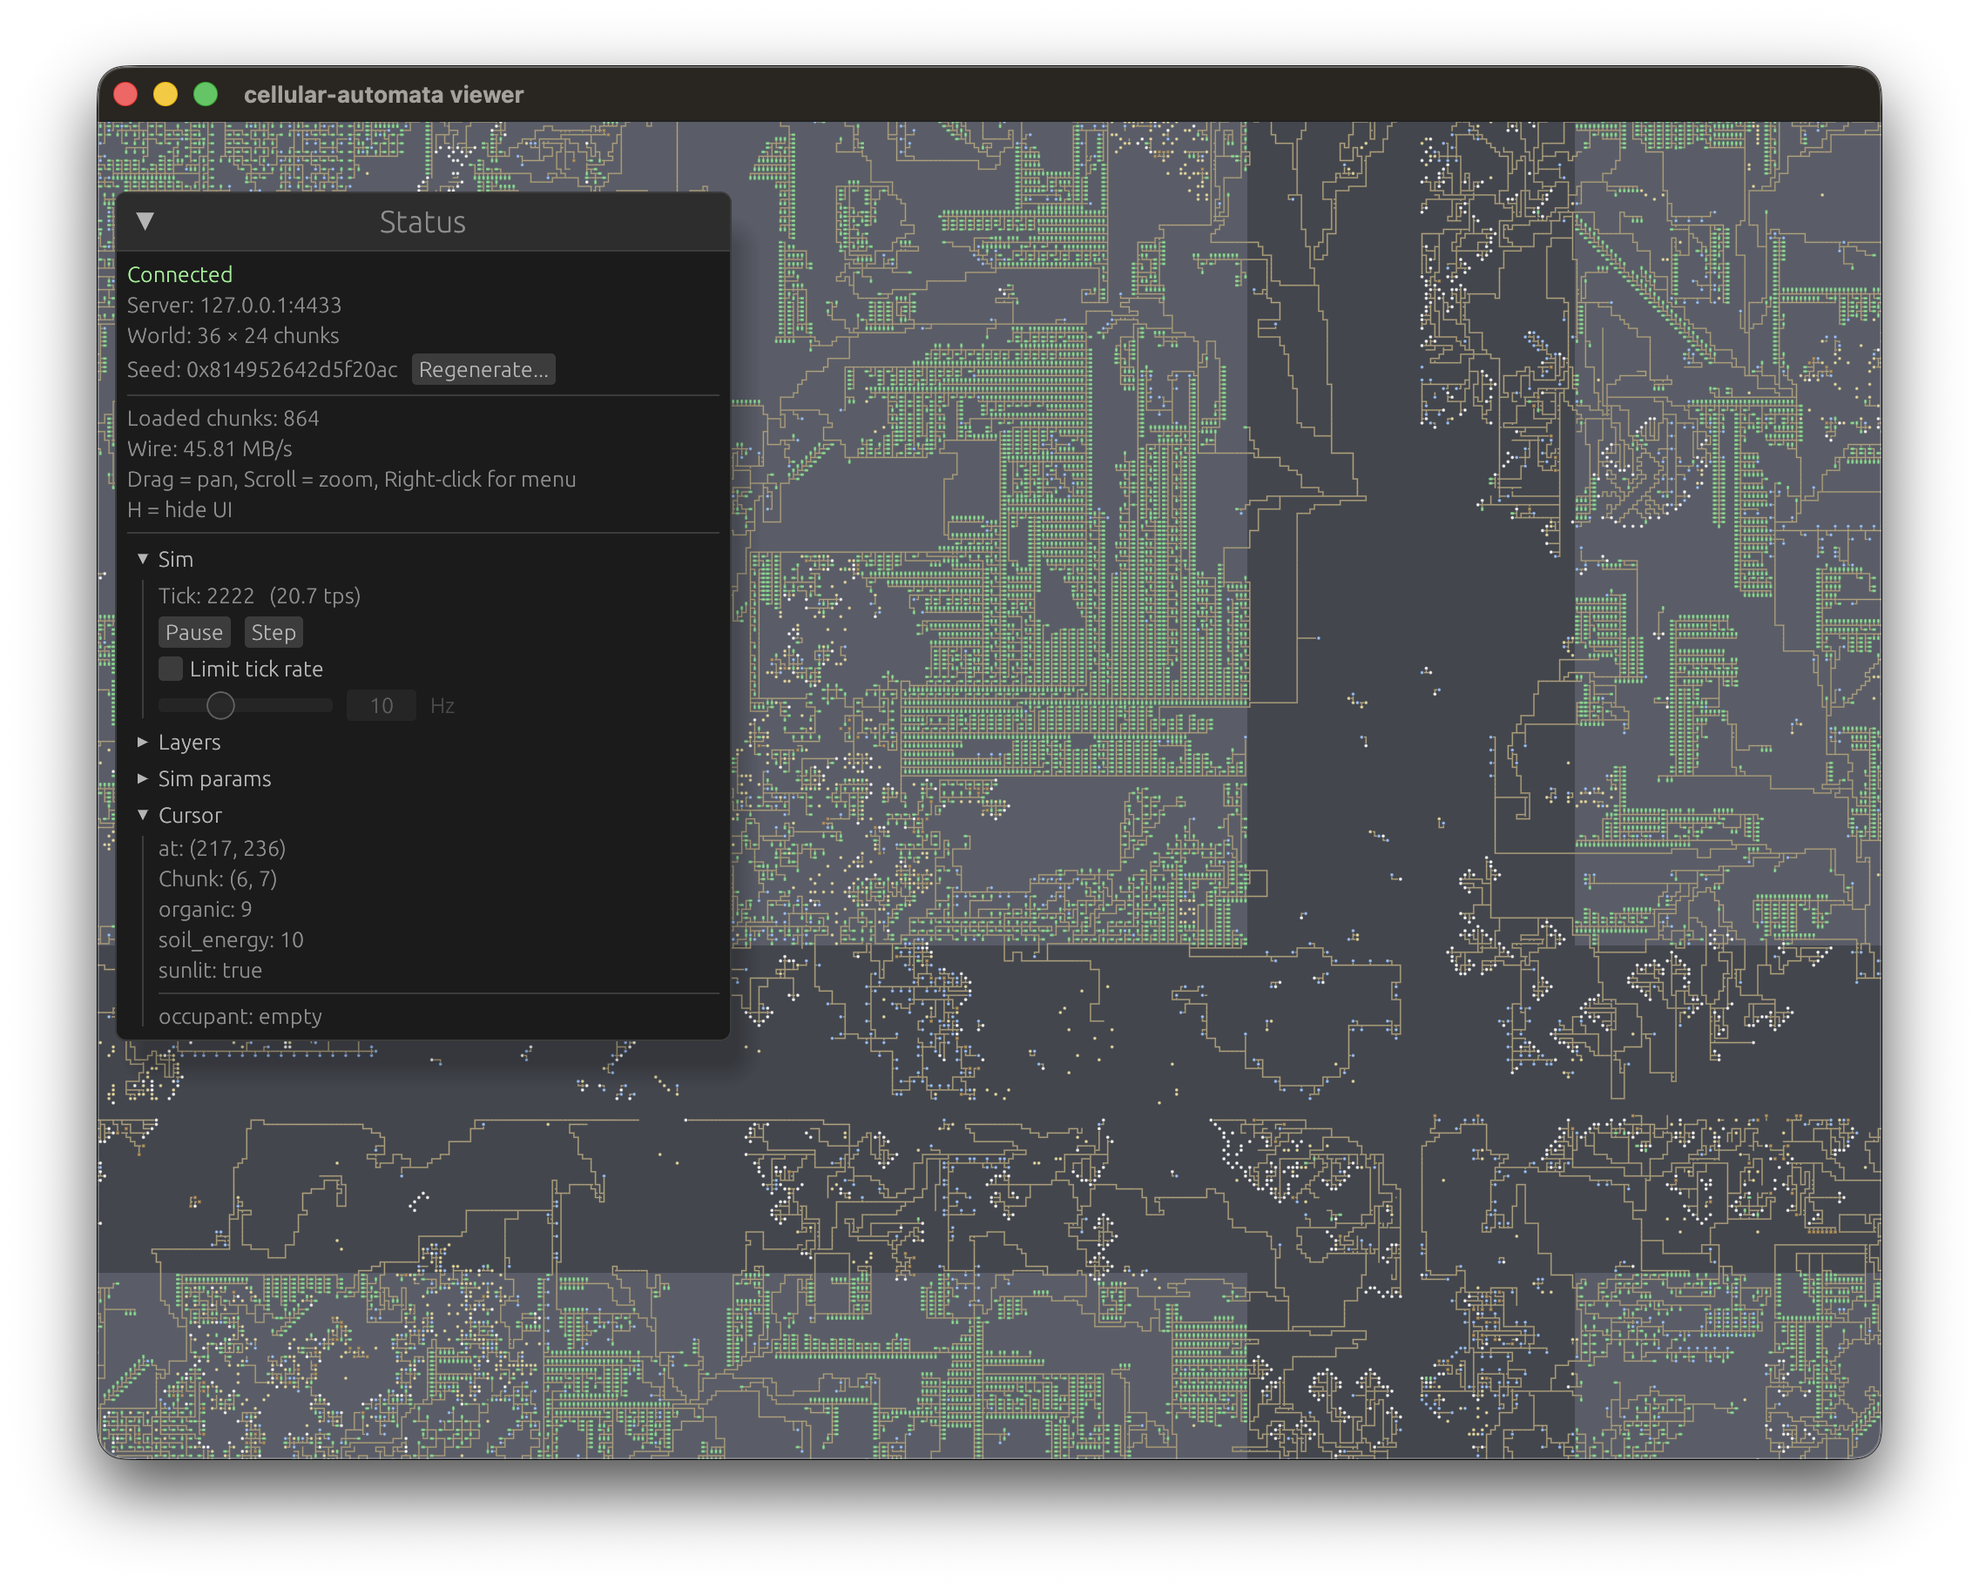
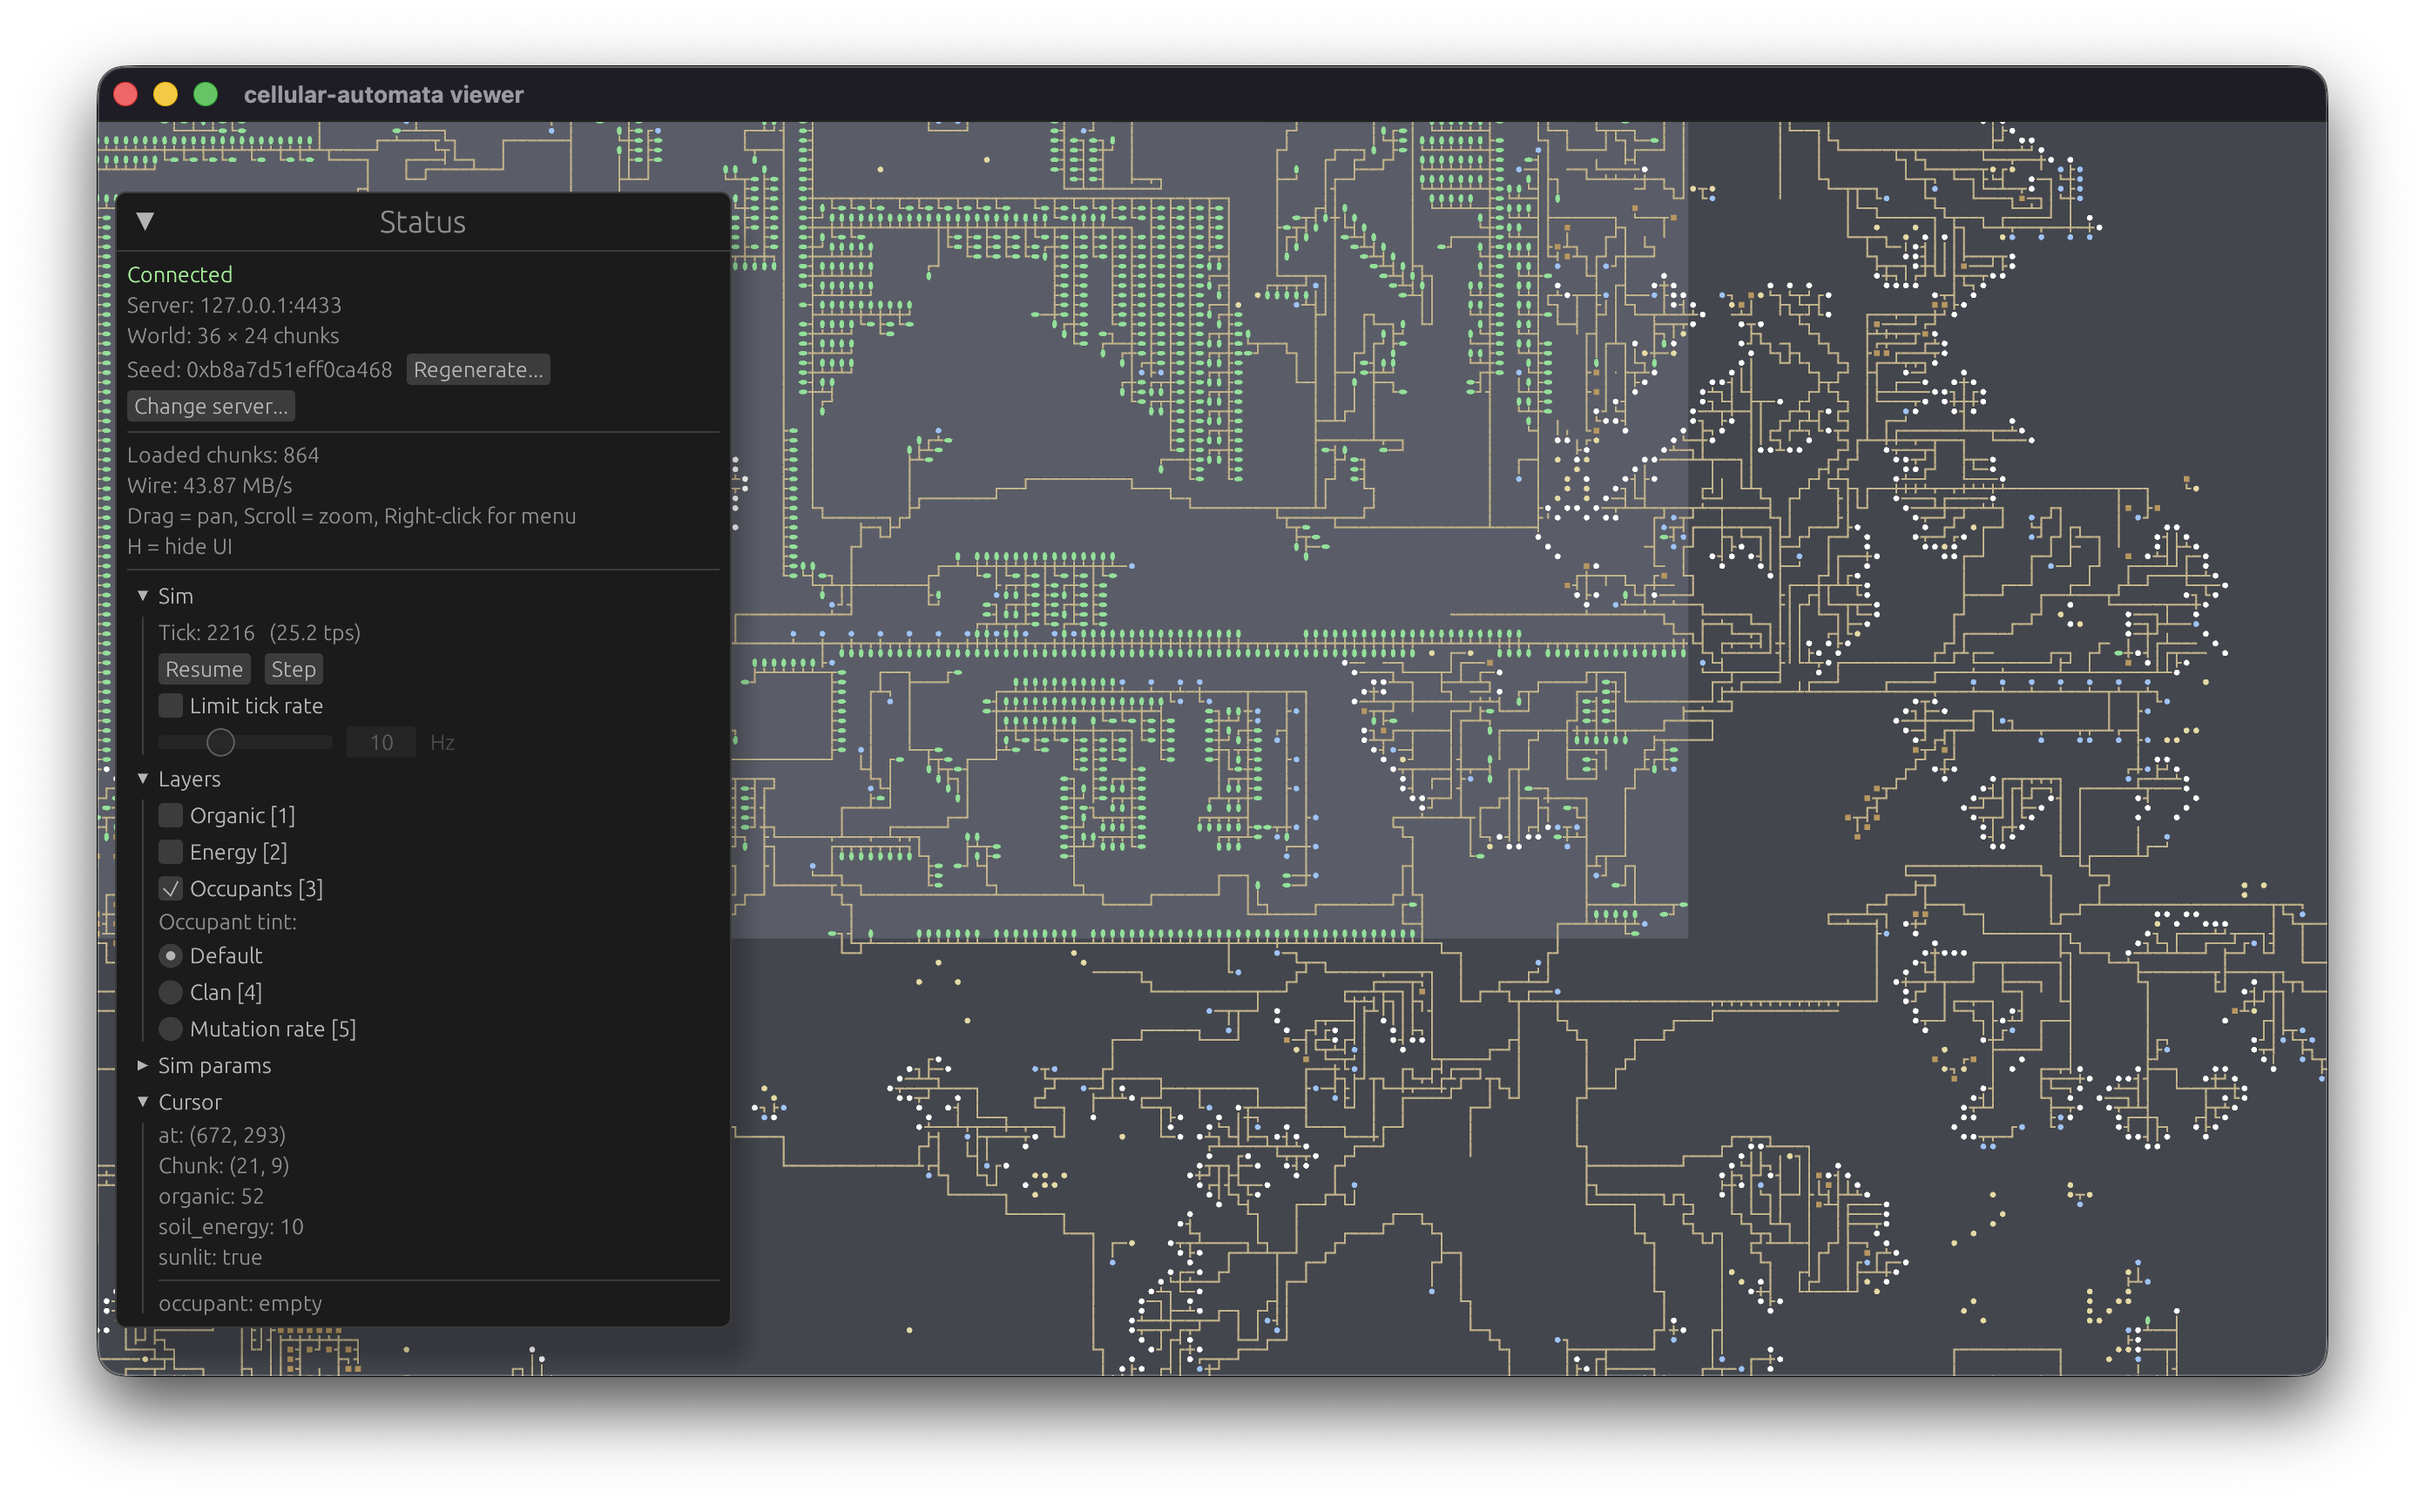
Update README and architecture docs to reflect changes and updated screenshot.

diff --git a/README.md b/README.md
@@ -167,6 +167,7 @@ mkdir -p traces
 ./target/release/server --start-running \
   --trace-chrome traces/server.json --profile-duration-secs 10 &
 ./target/release/viewer \
+  --server-addr 127.0.0.1:4433 \
   --trace-chrome traces/viewer.json --profile-duration-secs 8 \
   --tick-metrics
 wait

diff --git a/docs/architecture.md b/docs/architecture.md
@@ -1,4 +1,4 @@
-∂# Architecture Overview
+# Architecture Overview
 
 Simulife-rs is a distributed plant-evolution cellular automaton with a Rust server engine and networked wgpu/egui viewer clients connected via QUIC.
 
